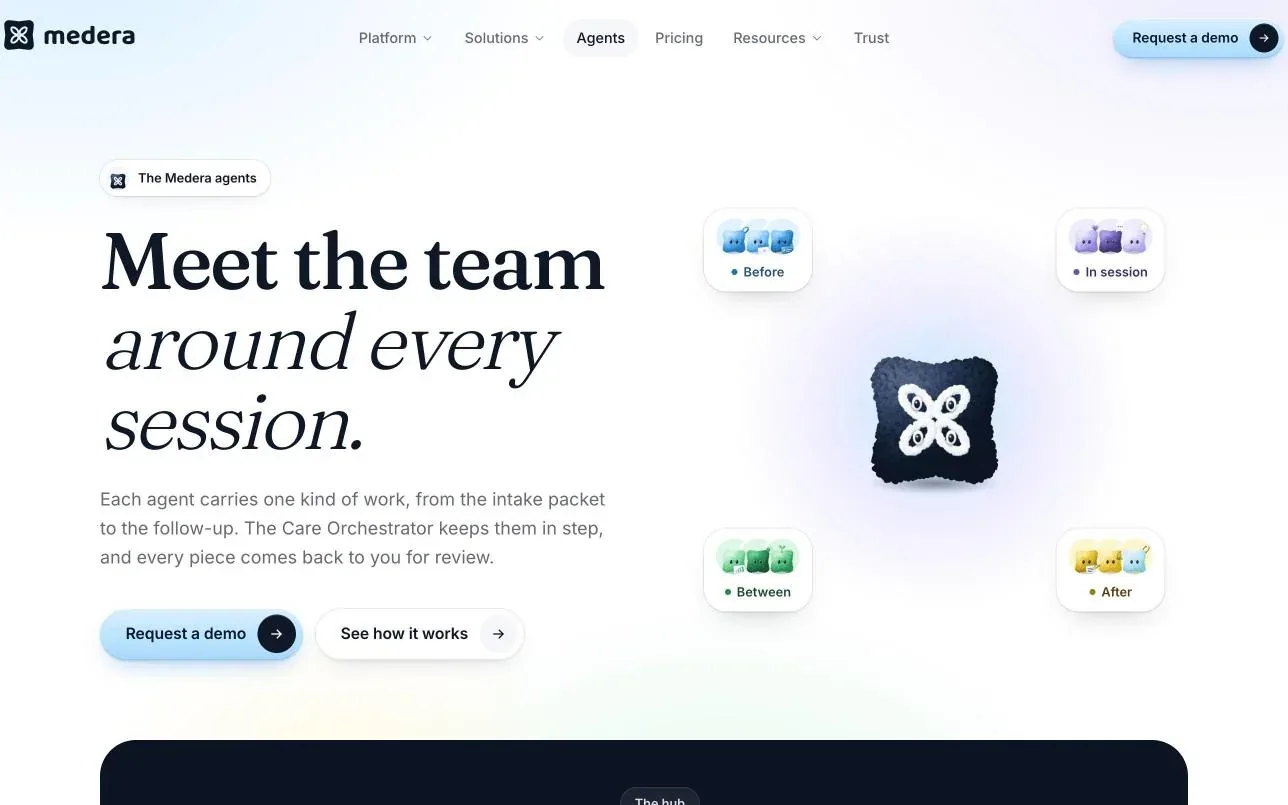
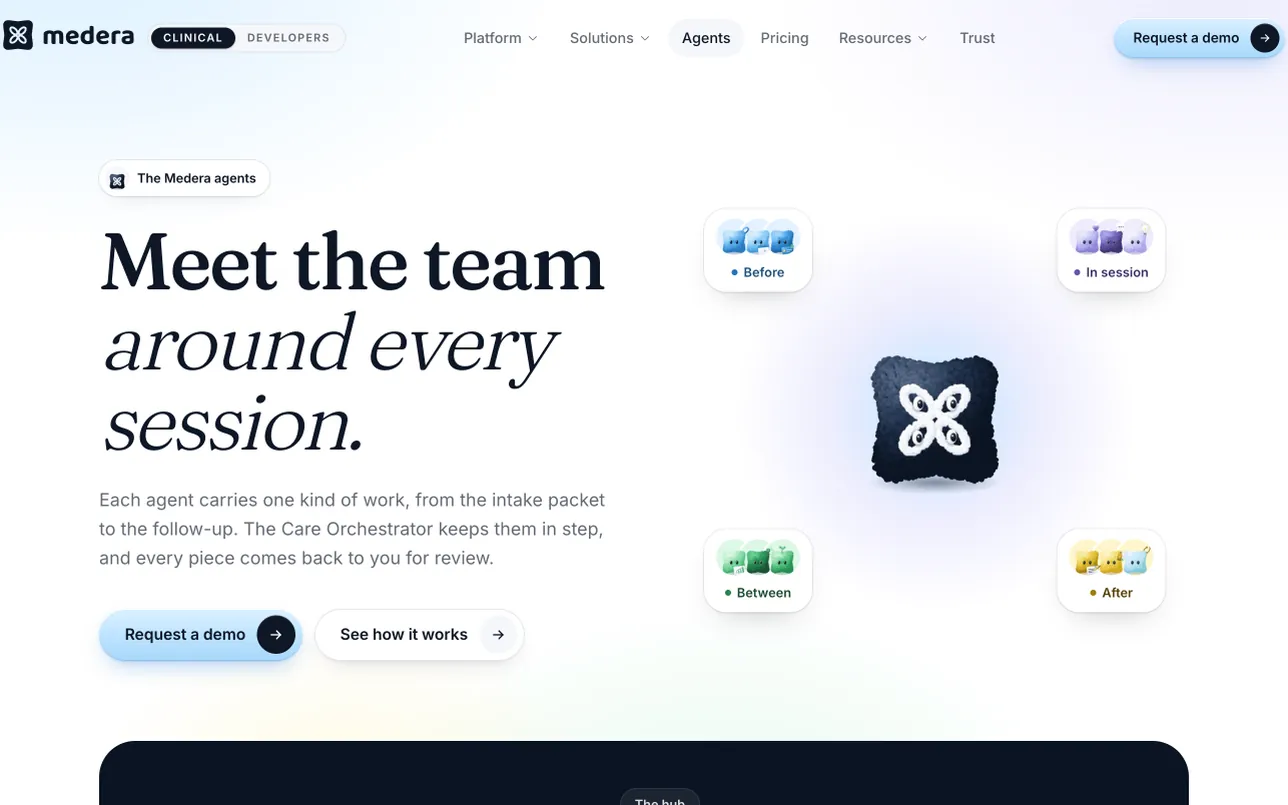
Site update: Work timeline, Perimeter and current project links (#3)
Work lists the four roles from the resume; Projects add Perimeter, current results and the new Medera links; Deep Thinking credits Mig Greengard; the unused Substack logo is removed.

Claude-Session: https://claude.ai/code/session_01HEiWxZAfJGKaMc8q9wgbpo

diff --git a/content/site.js b/content/site.js
@@ -36,50 +36,59 @@ window.SITE = {
     lead: "What I do:",
     statement: "build from zero to scale, take research into the clinic, and make AI earn trust.",
     paragraphs: [
-      "I'm the founder of [Medera](https://www.medera.info), the AI co-therapy OS for behavioral health. Before Medera I co-founded BOTIM and worked on its product; it became the Middle East's first VoIP unicorn and was acquired in 2023 by G42-backed Astra Tech, alongside a $500M round led by G42.",
-      "At Medera our agents carry the work around every therapy and primary-care session, from the intake packet to the claim, and nothing is filed without a clinician's review. I work across multi-agent orchestration, clinical speech recognition in English and Arabic, multimodal biomarkers (vocal, facial, physiological, neuro and clinical), and FHIR and HL7 interoperability.",
+      "I'm the founder of [Medera](https://www.medera.info), the AI co-therapy OS for behavioral health, and a co-founder of BOTIM. I work across multi-agent orchestration, clinical speech recognition in English and Arabic, multimodal biomarkers (vocal, facial, physiological, neuro and clinical), and FHIR and HL7 interoperability.",
       "I care about verification: the layers that make language models safe enough for psychiatry. I write about it in [Signal & Symptom](https://alsehami.substack.com).",
     ],
     facts: [
-      { label: "Currently", value: "Medera, founder" },
-      { label: "Working across", value: "AI, behavioral health, speech" },
-      { label: "Previously", value: "BOTIM, co-founder and product" },
+      { label: "Education", value: "M.S. Digital Health Informatics, University of San Francisco" },
+      { label: "Languages", value: "Arabic and English" },
       { label: "Recognition", value: "[MIT Hacking Medicine Grand Prize, New York 2018](#talks/mit-hacking-medicine)" },
     ],
   },
 
   /* ---------------- Experience ----------------
-     logo: a square image (about 176 x 176) shown beside the dates. */
+     One entry per role, newest first. logo: a square image (about 176 x 176)
+     shown beside the title, or { mark: "UCSF" } for a lettered tile. */
   experience: [
     {
-      dates: "Present",
-      title: "Founder",
+      dates: "2024 – Present",
+      title: "Founder & CEO",
       org: "Medera",
       orgUrl: "https://www.medera.info",
       place: "San Francisco",
       logo: { src: "content/logos/medera.png", alt: "Medera logo" },
       detail:
-        "Building the AI co-therapy OS for behavioral health: 23 clinical agents, the BH-ASR speech model with its public 13-recognizer leaderboard, Medera Glass for EHR write-back, and a patent-pending multimodal co-therapy engine, built to SOC 2 Type II, HIPAA and GDPR.",
+        "Building the AI co-therapy OS for behavioral health: patent-pending, and built to SOC 2 Type II, HIPAA and GDPR.",
     },
     {
-      dates: "Mar 2025 – Present",
-      title: "Writer",
-      org: "Signal & Symptom",
-      orgUrl: "https://alsehami.substack.com",
-      place: "Substack",
-      logo: { src: "content/logos/substack.png", alt: "Substack logo" },
+      dates: "Mar 2021 – Oct 2021",
+      title: "Data Scientist Intern",
+      org: "UCSF Health Hub",
+      orgUrl: "",
+      place: "San Francisco",
+      logo: { mark: "UCSF" },
       detail:
-        "Started writing about building agentic AI to rewire mental healthcare, then turned to the epistemological crisis of LLMs in psychiatry: how to detect hallucinations, and why dynamical systems theory offers a way forward.",
+        "Analyzed and managed the entries, judges and categories in Award Force for the 3rd annual UCSF Health Awards (formerly the UCSF Digital Health Awards): more than 1,200 submissions in 16 categories, scored by more than 450 judges over three rounds.",
     },
     {
-      dates: "2017",
-      title: "Co-founder and Product",
+      dates: "Feb 2016 – Dec 2019",
+      title: "Co-founder and Chief Product Officer",
       org: "BOTIM",
       orgUrl: "https://www.botim.me",
-      place: "UAE",
+      place: "San Francisco – Dubai",
       logo: { src: "content/logos/botim.png", alt: "BOTIM logo" },
       detail:
-        "Co-founded BOTIM and worked on its product. It grew into the Middle East's first VoIP unicorn with 90 million registered users by 2023, when G42-backed Astra Tech acquired it alongside a $500M round led by G42.",
+        "A video and voice calling app developed by Algento, a San Francisco mobile-technology company. I co-founded it and led its product.",
+    },
+    {
+      dates: "Feb 2015 – Dec 2015",
+      title: "Business Development Manager (Middle East)",
+      org: "SOMA Messenger",
+      orgUrl: "",
+      place: "San Francisco",
+      logo: { mark: "SOMA" },
+      detail:
+        "Managed VoIP partnerships with Gulf mobile operators for Instanza's HD video, voice and messaging app, which reached 10 million users within 30 days of launch, and designed the peer-to-peer payment infrastructure for a mobile payment product built on a white-label version of it, which won regulatory approval in Saudi Arabia.",
     },
   ],
 
@@ -96,7 +105,7 @@ window.SITE = {
         id: "co-therapy",
         eyebrow: "Built at Medera",
         title: "Co-therapy OS",
-        url: "https://www.medera.info/agents",
+        url: "https://www.medera.info/clinical/agents",
         detail:
           "23 agents carry the work around every therapy session, from the intake packet to the claim, kept in step by a Care Orchestrator. A clinician approves every step.",
         tags: ["Multi-agent", "FHIR R4", "Clinician in the loop"],
@@ -108,7 +117,7 @@ window.SITE = {
         title: "Medera BH-ASR",
         url: "https://huggingface.co/Medera/medera-bh-asr",
         detail:
-          "Speech recognition for behavioral-health conversations in English and Arabic. It sits at the top of a public 13-recognizer leaderboard for English consultations and invents no drug names under a medication prompt.",
+          "Speech recognition for behavioral-health conversations in English and Arabic. It sits at the top of a public 13-recognizer leaderboard for English consultations and invents no drug names under a medication prompt. Now extending to Arabic dialects, Persian, Spanish and Mandarin.",
         tags: ["English", "Arabic", "Hugging Face"],
         media: { image: "content/projects/bh-asr-leaderboard.webp", alt: "The behavioral-health speech recognition leaderboard, with Medera BH-ASR Pro first of 13 recognizers", tone: "lilac" },
       },
@@ -116,7 +125,7 @@ window.SITE = {
         id: "glass",
         eyebrow: "EHR write-back at Medera",
         title: "Medera Glass",
-        url: "https://www.medera.info/platform/glass",
+        url: "https://www.medera.info/clinical/platform/glass",
         detail:
           "Agents sign in to the EHR a practice already runs and file the notes, codes, scores and letters, the way a careful colleague would. No interface project, no copy-paste.",
         tags: ["Browser agents", "EHR", "Audit log"],
@@ -138,9 +147,19 @@ window.SITE = {
         title: "Hallucination guard",
         url: "https://alsehami.substack.com/p/the-epistemological-crisis-of-llms",
         detail:
-          "An end-to-end hallucination-detection and consensus layer that checks open-source models alongside Claude, OpenAI and Grok, modeled on Vectara's HHEM. I wrote about the problem it tackles in Signal & Symptom.",
+          "An end-to-end hallucination-detection and consensus layer that checks open-source models alongside Claude, OpenAI and Grok, modeled on Vectara's HHEM. My manuscript *Certify the Gate, Not the Generator* certifies which claims may reach a reader: on 81,414 MedLFQA claims it keeps 77.8% at a 3% unsupported rate. I wrote about the problem it tackles in Signal & Symptom.",
         tags: ["Multi-LLM", "Verification", "Open source"],
         media: { image: "content/projects/hallucination-essay.webp", alt: "The Signal & Symptom essay on LLM hallucination detection in psychiatry", tone: "paper" },
+      },
+      {
+        id: "perimeter",
+        eyebrow: "Independent research in computer vision",
+        title: "Perimeter",
+        url: "",
+        detail:
+          "A vision transformer that reads an image as its parts, not as a grid of squares: each picture becomes an oriented cell complex of regions, and one signed pass along the region borders gives every region's exact area, centre and spread. In a CPU pilot on Imagewoof, region tokens beat patch tokens on all three seeds (64.7% vs 62.8% top-1) with 69% of the compute.",
+        tags: ["Vision transformers", "Topological deep learning", "In progress"],
+        media: { image: "content/projects/perimeter.webp", alt: "A frame from the Perimeter explainer: SLIC splits a photo of a dog into regions, the sky into a few large ones and the head and legs into their own", tone: "blue" },
       },
       {
         id: "cello",
@@ -148,8 +167,8 @@ window.SITE = {
         title: "CELLO",
         url: "",
         detail:
-          "My own graph learning architecture and training algorithm, built on topological deep learning: it learns from higher-order structure, cells as well as nodes and edges, and is aimed at the top of public graph benchmarks. Trained end to end on NVIDIA A100 GPUs.",
-        tags: ["Topological deep learning", "Graph learning", "In progress"],
+          "Vision transformers on oriented cell complexes: each block passes messages between image patches, their adjacencies and 2 × 2 squares, so the model sees how patches are arranged, not only which belong together. On CIFAR-10 it reaches 89.54% at about 0.1 GMACs, against at most 88.56% for ViT and HgVT (one seed so far), and early exits certified with Learn-then-Test cut compute 2.18×.",
+        tags: ["Topological deep learning", "Vision transformers", "In progress"],
         media: "complex", // a turning cell complex, drawn live; swap for a screenshot once results are public
       },
       {
@@ -158,7 +177,7 @@ window.SITE = {
         title: "BOTIM",
         url: "https://www.botim.me",
         detail:
-          "Co-founded and worked on product at the Middle East's first VoIP unicorn: 90 million registered users by 2023, when G42-backed Astra Tech acquired it alongside a $500M round led by G42.",
+          "The Middle East's first VoIP unicorn: 90 million registered users and 80% penetration in the UAE by 2023, when G42-backed Astra Tech acquired it alongside a $500M round led by G42.",
         tags: ["VoIP", "Consumer", "UAE"],
         media: { image: "content/projects/botim.webp", alt: "The BOTIM website today: love talks, money moves, all on botim", tone: "blue" },
       },
@@ -221,6 +240,9 @@ window.SITE = {
           },
         ],
       },
+      // Items without photos are listed one line each, under the others.
+      { id: "rad-global-forum", year: "2020", place: "Beverly Hills", title: "Speaker, RAD Global Forum" },
+      { id: "misk-hackathon", year: "2016", place: "Riyadh", title: "Runner-up, MiSK Hackathon" },
     ],
   },
 
@@ -309,7 +331,7 @@ window.SITE = {
         color: "#E46C3E", accent: "#FBE4C8", height: 0.98, width: 0.95,
       },
       {
-        title: "Deep Thinking", author: "Garry Kasparov",
+        title: "Deep Thinking", author: "Garry Kasparov with Mig Greengard", spineAuthor: "Kasparov",
         note: "Where Machine Intelligence Ends and Human Creativity Begins.",
         color: "#E15A35", accent: "#262626", height: 0.98, width: 0.9,
       },

diff --git a/assets/js/site.js b/assets/js/site.js
@@ -151,7 +151,10 @@
       var li = make("li", "role");
       li.appendChild(make("p", "role-when", text(r.dates)));
       var body = make("div", "role-body");
-      var logo = r.logo && r.logo.src ? '<img class="role-logo" src="' + esc(r.logo.src) + '" alt="" width="44" height="44" loading="lazy" decoding="async">' : "";
+      // A logo image, or a lettered tile ({ mark: "UCSF" }) for roles with no image.
+      var logo = "";
+      if (r.logo && r.logo.src) logo = '<img class="role-logo" src="' + esc(r.logo.src) + '" alt="" width="44" height="44" loading="lazy" decoding="async">';
+      else if (r.logo && r.logo.mark) logo = '<span class="role-logo role-mark" aria-hidden="true">' + text(r.logo.mark) + "</span>";
       var org = r.org ? (r.orgUrl ? "<a " + linkAttrs(r.orgUrl) + ">" + outText(r.org) + (isExternal(r.orgUrl) ? NEWTAB : "") + "</a>" : text(r.org)) : "";
       body.appendChild(make("h3", "role-title", logo + '<span class="role-name">' + text(r.title) + (org ? ", " + org : "") + "</span>"));
       if (r.place) body.appendChild(make("p", "role-place", text(r.place)));
@@ -225,10 +228,22 @@
     if (!items.length) { sec.remove(); return; }
     head(sec, "talks", talks.title || "Talks", talks.note);
     var ol = make("ol", "talks");
-    items.forEach(function (t, i) {
-      var li = make("li", "talk" + (i % 2 ? " is-flipped" : ""));
-      if (t.id) li.id = "talk-" + t.id;
+    // Items without photos are listed one line each, under the others.
+    var brief = make("ul", "talks-brief");
+    var shown = 0;
+    items.forEach(function (t) {
       var photos = list(t.photos).filter(function (ph) { return ph && ph.src; }).slice(0, 2);
+      if (!photos.length) {
+        var row = make("li", "talk-brief",
+          '<p class="talk-brief-year">' + text(t.year || "") + "</p>" +
+          '<p class="talk-brief-text"><span class="talk-brief-title">' + text(t.title) + "</span>" +
+          (t.place ? '<span class="talk-brief-place">' + text(t.place) + "</span>" : "") + "</p>");
+        if (t.id) row.id = "talk-" + t.id;
+        brief.appendChild(row);
+        return;
+      }
+      var li = make("li", "talk" + (shown++ % 2 ? " is-flipped" : ""));
+      if (t.id) li.id = "talk-" + t.id;
       if (photos.length) {
         var wall = make("div", "talk-photos " + (photos.length > 1 ? "is-pair" : "is-single"));
         photos.forEach(function (ph, k) {
@@ -253,7 +268,8 @@
       li.appendChild(body);
       ol.appendChild(li);
     });
-    sec.appendChild(ol);
+    if (shown) sec.appendChild(ol);
+    if (brief.children.length) sec.appendChild(brief);
   })();
 
   /* ---------------- bookshelf (mounted when near) ---------------- */

diff --git a/assets/css/site.css b/assets/css/site.css
@@ -430,6 +430,17 @@ h1, h2, h3, p, ul, ol, dl, dd, figure { margin: 0; }
 }
 .role-title a { color: var(--ink); text-decoration-color: color-mix(in srgb, var(--ink) 35%, transparent); }
 .role-logo { flex: none; width: 44px; height: 44px; border-radius: 12px; box-shadow: 0 0 0 1px var(--line); }
+/* A lettered tile for roles with no logo image */
+.role-mark {
+  display: inline-grid;
+  place-items: center;
+  background: var(--mat);
+  color: var(--ink);
+  font-size: 11.5px;
+  font-weight: 640;
+  line-height: 1;
+  letter-spacing: 0.02em;
+}
 .role-place, .role-detail { margin-left: 58px; }
 .role-place { margin-top: 6px; font-size: 15px; color: var(--slate); }
 .role-detail { max-width: 64ch; margin-top: 12px; font-size: 17px; color: var(--ink-2); }
@@ -559,6 +570,26 @@ h1, h2, h3, p, ul, ol, dl, dd, figure { margin: 0; }
 .talk-place { margin-top: 10px; font-size: 16px; color: var(--slate); }
 .talk-role { margin-top: 2px; font-size: 16px; color: var(--ink-2); }
 .talk-detail { max-width: 46ch; margin-top: 16px; font-size: 17px; line-height: 1.62; color: var(--ink-2); }
+/* Talks and prizes without photos: one line each, under the others */
+.talks-brief {
+  display: grid;
+  gap: 18px;
+  margin-top: clamp(64px, 8vw, 104px);
+  padding: 30px 0 0;
+  list-style: none;
+  border-top: 1px solid var(--line);
+}
+.talk-brief {
+  display: grid;
+  grid-template-columns: 10.5em minmax(0, 1fr);
+  gap: 24px;
+  align-items: baseline;
+  scroll-margin-top: 96px;
+}
+.talk-brief-year { font-size: 15px; color: var(--slate); font-variant-numeric: tabular-nums; }
+.talk-brief-text { display: flex; flex-wrap: wrap; align-items: baseline; gap: 4px 14px; }
+.talk-brief-title { font-size: clamp(20px, 2vw, 24px); font-weight: 430; line-height: 1.2; letter-spacing: -0.02em; }
+.talk-brief-place { font-size: 15px; color: var(--slate); }
 
 /* ---------- Bookshelf ---------- */
 .shelf-hint { margin: -22px 0 22px; font-size: 14.5px; color: var(--slate); }
@@ -1019,6 +1050,7 @@ a.contact-value:hover { text-decoration: underline; text-decoration-color: var(-
   .role-when { padding-top: 0; }
   .role::before { top: 6px; }
   .role-place, .role-detail { margin-left: 0; }
+  .talk-brief { grid-template-columns: minmax(0, 1fr); gap: 4px; }
   .works { grid-template-columns: minmax(0, 1fr); padding-bottom: 0; }
   .work:nth-child(even) { transform: none; }
   .interests { grid-template-columns: repeat(2, minmax(0, 1fr)); }

diff --git a/README.md b/README.md
@@ -22,9 +22,9 @@ Every word, link and picture lives in **`content/site.js`**. Edit, save, refresh
 | --- | --- | --- |
 | Hero | `person`, `hero` | Name and the one-line intro under it. |
 | About | `about` | The big statement (`lead` is the softer opening), paragraphs, and the facts beside the portrait. `person.location` is added to the facts as "Based in". |
-| Work | `experience` | One entry per role on the timeline: `dates`, `title`, `org`, `orgUrl`, `place`, `detail`, and `logo: { src, alt }` (files in `content/logos/`, about 176 × 176). |
+| Work | `experience` | One entry per role on the timeline, newest first: `dates`, `title`, `org`, `orgUrl`, `place`, `detail`, and `logo: { src, alt }` (files in `content/logos/`, about 176 × 176). For a role with no logo image, `logo: { mark: "UCSF" }` shows the letters on a sky tile instead. |
 | Projects | `projects.items` | `media: { image, alt, tone }` shows a screenshot from `content/projects/` rising out of a coloured mat; `tone` picks the mat (`"sky"`, `"lilac"`, `"mint"`, `"blue"`, `"paper"`). For work with no screenshot yet, `media: "complex"` draws a turning cell complex instead (used for CELLO). `#projects/<id>` opens the page at that project. |
-| Talks & prizes | `talks.items` | `{ id, year, place, title, role, detail, badge, photos }`. `photos` are `{ src, alt, caption, width, height }` from `content/talks/`: the first is shown large and a second overlaps its corner; `badge` is the pill on the first photo. `#talks/<id>` opens the page at that item (the About facts link to the MIT entry this way). |
+| Talks & prizes | `talks.items` | `{ id, year, place, title, role, detail, badge, photos }`. `photos` are `{ src, alt, caption, width, height }` from `content/talks/`: the first is shown large and a second overlaps its corner; `badge` is the pill on the first photo. An item with no photos is listed on one line under the others (year, title and place). `#talks/<id>` opens the page at that item (the About facts link to the MIT entry this way). |
 | Bookshelf | `books.items` | `{ title, author, note, color, accent }`, plus optional `ink` (spine text colour), `height` and `width` (about 0.75–1.15 and 0.7–1.4), `font: "serif"` for a serif spine, `spineTitle` / `spineAuthor` for shorter spine text, `reading: true` to show that book first, and `cover: "content/books/…"` for a real cover image. Long titles shrink and wrap onto two or three lines to fit the spine. |
 | Interests | `interests.items` | `figure` picks the 3D figure made of points: `"network"` (a social graph), `"camera"` (a camera on a tripod), `"tennis"` (a racket and ball), `"mountain"` (peaks with a trail and flag), `"bike"` (a road bike) or `"people"` (two people talking). Each figure assembles as it scrolls into view and turns toward the pointer. Add `photos: [{ src, caption }]` to show small photos under the text, and `project: "<project id>"` to link the tile to a project (Explainers links to the explainers). `#interests/<id>` opens the page at that tile. |
 | Play Me | `play` | Tennis on a sky court: move with the mouse, a finger or the arrow keys, serve with a click, a tap or the space bar. Hitting off the edge of the racket angles the ball, and too wide lands out. Four points, two clear, takes a game. Games and the longest rally are kept in the visitor's browser. |
@@ -80,6 +80,6 @@ The live site is [fahadama.info](https://fahadama.info). GitHub Pages serves it 
 ## Credits
 
 - Font under the SIL Open Font License: Bricolage Grotesque (The Bricolage Grotesque Project Authors). The license is in `assets/fonts/`.
-- Logos: Medera's mark from medera.info, BOTIM's wordmark (on BOTIM blue) from botim.me, and Substack's app icon from substack.com, captured November 2026. They belong to their owners and are shown only to identify the companies.
-- Screenshots: medera.info, the BH-ASR leaderboard and its Two gates explainer on Hugging Face, botim.me and Signal & Symptom on Substack. The portrait comes from Signal & Symptom.
+- Logos: Medera's mark from medera.info and BOTIM's wordmark (on BOTIM blue) from botim.me, captured November 2026. They belong to their owners and are shown only to identify the companies. The other roles show their names' letters, not logos.
+- Screenshots: medera.info's agents and Medera Glass pages, the BH-ASR leaderboard and its Two gates explainer on Hugging Face, a frame from the Perimeter explainer video, botim.me and Signal & Symptom on Substack. The portrait comes from Signal & Symptom.
 - Talks & prizes: the MIT Hacking Medicine photos (New York, 2018) are Fahad's own. The Regeneron ISEF 2024 artwork belongs to Society for Science and is shown only to identify the event.
